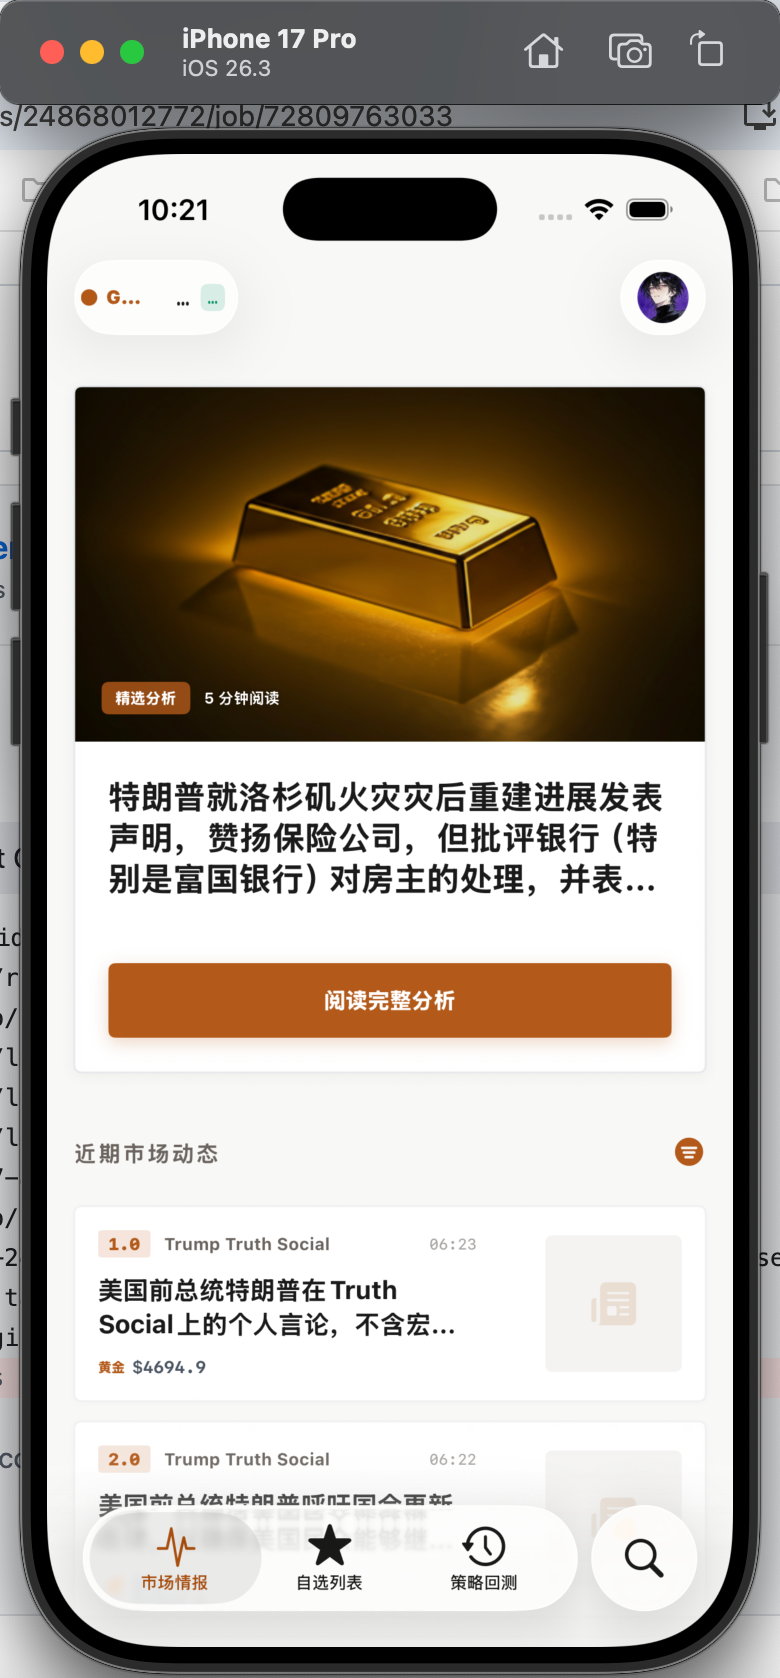
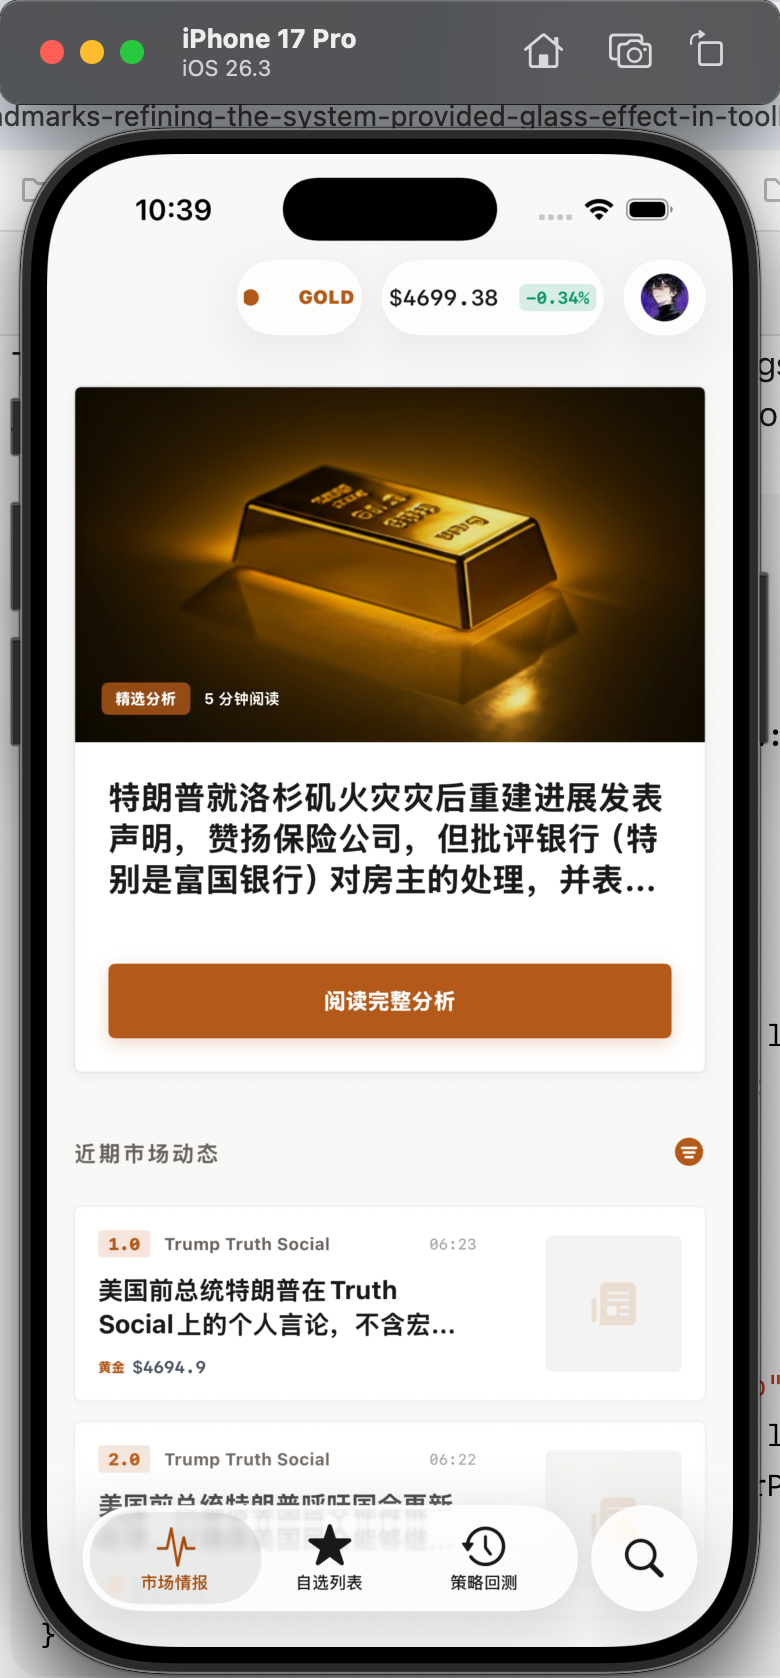
update_ui

diff --git a/apps/mobile/ios/LucidPanda/LucidPanda/Features/Dashboard/IntelligenceItemCard.swift b/apps/mobile/ios/LucidPanda/LucidPanda/Features/Dashboard/IntelligenceItemCard.swift
@@ -56,20 +56,33 @@ struct IntelligenceItemCard: View {
 
     private var featuredLayout: some View {
         VStack(alignment: .leading, spacing: 0) {
-            // Image with real project assets
+            // Image with real project assets or remote URL
             ZStack(alignment: .bottomLeading) {
-                let imageName = item.id % 2 == 0 ? "featured_1" : "featured_2"
-                
-                // Base 16:9 container to prevent distortion
-                Color.clear
-                    .aspectRatio(16/9, contentMode: .fit)
-                    .overlay(
-                        Image(imageName)
+                if let urlString = item.imageUrl, let url = URL(string: urlString) {
+                    AsyncImage(url: url) { image in
+                        image
                             .resizable()
                             .aspectRatio(contentMode: .fill)
-                    )
+                    } placeholder: {
+                        Color.Alpha.surfaceDim
+                    }
+                    .frame(maxWidth: .infinity)
+                    .aspectRatio(16/9, contentMode: .fit)
                     .clipped()
-                    .overlay(Color.black.opacity(0.1)) // Subtle darkening for text readability
+                } else {
+                    let imageName = item.id % 2 == 0 ? "featured_1" : "featured_2"
+                    // Base 16:9 container to prevent distortion
+                    Color.clear
+                        .aspectRatio(16/9, contentMode: .fit)
+                        .overlay(
+                            Image(imageName)
+                                .resizable()
+                                .aspectRatio(contentMode: .fill)
+                        )
+                        .clipped()
+                }
+                
+                Color.black.opacity(0.1) // Subtle darkening for text readability
                 
                 HStack(spacing: 8) {
                     Text("dashboard.badge.featured")
@@ -171,16 +184,31 @@ struct IntelligenceItemCard: View {
             
             Spacer()
             
-            // Thumbnail placeholder
-            Rectangle()
-                .fill(Color.Alpha.surfaceContainerLow)
+            // Thumbnail with real image support
+            if let urlString = item.imageUrl, let url = URL(string: urlString) {
+                AsyncImage(url: url) { image in
+                    image
+                        .resizable()
+                        .aspectRatio(contentMode: .fill)
+                } placeholder: {
+                    Rectangle()
+                        .fill(Color.Alpha.surfaceContainerLow)
+                        .overlay(ProgressView().scaleEffect(0.5))
+                }
                 .frame(width: 80, height: 80)
                 .clipShape(RoundedRectangle(cornerRadius: 4))
-                .overlay(
-                    Image(systemName: "newspaper.fill")
-                        .font(.system(size: 24))
-                        .foregroundStyle(Color.Alpha.brand.opacity(0.15))
-                )
+                .overlay(RoundedRectangle(cornerRadius: 4).stroke(Color.Alpha.separator.opacity(0.3), lineWidth: 0.5))
+            } else {
+                Rectangle()
+                    .fill(Color.Alpha.surfaceContainerLow)
+                    .frame(width: 80, height: 80)
+                    .clipShape(RoundedRectangle(cornerRadius: 4))
+                    .overlay(
+                        Image(systemName: "newspaper.fill")
+                            .font(.system(size: 24))
+                            .foregroundStyle(Color.Alpha.brand.opacity(0.15))
+                    )
+            }
         }
         .padding(14)
         .background(Color.Alpha.surface)

diff --git a/apps/mobile/ios/LucidPanda/LucidPanda/Features/Dashboard/MainDashboardView.swift b/apps/mobile/ios/LucidPanda/LucidPanda/Features/Dashboard/MainDashboardView.swift
@@ -88,7 +88,8 @@ struct MainDashboardView: View {
                 IntelligenceDetailView(item: item)
             }
             .toolbar {
-                ToolbarItem(placement: .topBarLeading) {
+                ToolbarSpacer(.flexible)
+                ToolbarItem {
                     // Button 1: Real-time Market Status & Label
                     Button {
                         let generator = UIImpactFeedbackGenerator(style: .medium)
@@ -110,11 +111,12 @@ struct MainDashboardView: View {
                     }
                     .buttonStyle(.plain)
                     .onAppear { isTickerAnimating = true }
+                    .fixedSize(horizontal: true, vertical: false)
                 }
 
                 ToolbarSpacer(.fixed)
 
-                ToolbarItem(placement: .topBarLeading) {
+                ToolbarItem {
                     // Button 2: Numerical Data (Price & Change)
                     if let pulse = rootViewModel.marketPulseViewModel.pulseData {
                         Button {
@@ -137,32 +139,29 @@ struct MainDashboardView: View {
                             }
                         }
                         .buttonStyle(.plain)
+                        .fixedSize(horizontal: true, vertical: false)
                     }
                 }
-
-                ToolbarItem(placement: .topBarTrailing) {
+                
+                ToolbarSpacer(.fixed)
+                
+                ToolbarItem {
                     Button {
                         isSettingsPresented = true
                     } label: {
-                        if let avatarUrl = rootViewModel.userProfile?.avatarUrl {
-                            let absoluteUrl = URL(string: avatarUrl, relativeTo: APIClient.shared.baseURL)
+                        if let avatarUrl = rootViewModel.userProfile?.avatarUrl, 
+                           let absoluteUrl = URL(string: avatarUrl, relativeTo: APIClient.shared.baseURL) {
                             AsyncImage(url: absoluteUrl) { image in
                                 image
                                     .resizable()
                                     .scaledToFill()
                             } placeholder: {
-                                Color.clear
+                                initialText
                             }
                             .frame(width: 28, height: 28)
                             .clipShape(Circle())
                         } else {
-                            let displayEmail = rootViewModel.userProfile?.email ?? "root@lucidpanda.com"
-                            let initial = String(displayEmail.prefix(1)).uppercased()
-                            
-                            Text(initial)
-                                .font(.system(size: 16, weight: .black))
-                                .foregroundStyle(Color.Alpha.brand)
-                                .frame(width: 28, height: 28)
+                            initialText
                         }
                     }
                 }
@@ -195,6 +194,16 @@ struct MainDashboardView: View {
     }
     
     @State private var isTickerAnimating = false
+
+    private var initialText: some View {
+        let displayEmail = rootViewModel.userProfile?.email ?? "root@lucidpanda.com"
+        let initial = String(displayEmail.prefix(1)).uppercased()
+        
+        return Text(initial)
+            .font(.system(size: 16, weight: .black))
+            .foregroundStyle(Color.Alpha.brand)
+            .frame(width: 28, height: 28)
+    }
 
     private var searchAndFilterBar: some View {
         Menu {

diff --git a/apps/mobile/ios/Packages/AlphaData/Sources/AlphaData/IntelligenceModels.swift b/apps/mobile/ios/Packages/AlphaData/Sources/AlphaData/IntelligenceModels.swift
@@ -7,6 +7,7 @@ public struct IntelligenceItem: Codable, Identifiable, Hashable {
     public let author: String
     public let summary: String
     public let content: String
+    public let image_url: String?
     public let sentiment: String
     public let urgencyScore: Int
     public let goldPriceSnapshot: Double?
@@ -23,6 +24,9 @@ public struct IntelligenceItem: Codable, Identifiable, Hashable {
     public let price12h: Double?
     public let price24h: Double?
 
+    // 快捷访问
+    public var imageUrl: String? { image_url }
+
     // 手动定义的 public memberwise initializer
     public init(
         id: Int,
@@ -30,6 +34,7 @@ public struct IntelligenceItem: Codable, Identifiable, Hashable {
         author: String,
         summary: String,
         content: String,
+        image_url: String? = nil,
         sentiment: String,
         urgencyScore: Int,
         goldPriceSnapshot: Double?,
@@ -47,6 +52,7 @@ public struct IntelligenceItem: Codable, Identifiable, Hashable {
         self.author = author
         self.summary = summary
         self.content = content
+        self.image_url = image_url
         self.sentiment = sentiment
         self.urgencyScore = urgencyScore
         self.goldPriceSnapshot = goldPriceSnapshot
@@ -68,6 +74,7 @@ public struct IntelligenceItem: Codable, Identifiable, Hashable {
         author = try container.decode(String.self, forKey: .author)
         urgencyScore = try container.decode(Int.self, forKey: .urgencyScore)
         goldPriceSnapshot = try container.decodeIfPresent(Double.self, forKey: .goldPriceSnapshot)
+        image_url = try container.decodeIfPresent(String.self, forKey: .image_url)
         
         dxySnapshot = try container.decodeIfPresent(Double.self, forKey: .dxySnapshot)
         us10ySnapshot = try container.decodeIfPresent(Double.self, forKey: .us10ySnapshot)
@@ -107,7 +114,7 @@ public struct IntelligenceItem: Codable, Identifiable, Hashable {
     }
 
     enum CodingKeys: String, CodingKey {
-        case id, timestamp, author, summary, content
+        case id, timestamp, author, summary, content, image_url
         case sentiment = "sentiment_label" // 保持默认映射用于向后兼容
         case urgencyScore = "urgency_score"
         case goldPriceSnapshot = "gold_price_snapshot"

diff --git a/apps/api/src/lucidpanda/providers/data_sources/rsshub.py b/apps/api/src/lucidpanda/providers/data_sources/rsshub.py
@@ -214,6 +214,36 @@ class RSSHubSource(BaseDataSource):
     def _is_noise(self, text: str) -> bool:
         return any(kw in text for kw in _NOISE_KEYWORDS)
 
+    def _extract_rss_image(self, entry) -> str | None:
+        """
+        [多维图像嗅探]
+        1. 尝试 media_content (常见于 Bloomberg/CNBC)
+        2. 尝试 enclosures (传统 RSS)
+        3. 解析 summary/description 中的 <img> 标签 (RSSHub 默认行为)
+        """
+        # A. Media Content
+        media_content = getattr(entry, "media_content", None)
+        if media_content and len(media_content) > 0:
+            return media_content[0].get("url")
+
+        # B. Enclosures
+        enclosures = getattr(entry, "enclosures", None)
+        if enclosures and len(enclosures) > 0:
+            for enc in enclosures:
+                if enc.get("type", "").startswith("image/"):
+                    return enc.get("href")
+
+        # C. HTML Scraper from summary
+        summary_html = getattr(entry, "summary", "") or getattr(entry, "description", "")
+        if summary_html:
+            import re
+
+            match = re.search(r'<img [^>]*src="([^"]+)"', summary_html)
+            if match:
+                return match.group(1)
+
+        return None
+
     def _passes_category_filter(self, category: str, text: str) -> bool:
         """根据情报分类应用不同的过滤策略。"""
         if category == "macro_gold":
@@ -351,6 +381,7 @@ class RSSHubSource(BaseDataSource):
                             "content": f"{title}. {summary}",
                             "url": getattr(entry, "link", url),
                             "id": item_id,
+                            "image_url": self._extract_rss_image(entry),
                         }
                     )
                 status["new_items"] = len(items)

diff --git a/apps/api/scripts/migrations/004_add_intelligence_image_url.py b/apps/api/scripts/migrations/004_add_intelligence_image_url.py
@@ -1,0 +1,37 @@
+"""
+Migration: Add image_url to intelligence table
+Date: 2026-04-24
+"""
+from src.lucidpanda.infra.database.connection import get_session
+from sqlalchemy import text
+from sqlmodel import Session
+
+def migrate():
+    print("🚀 Starting migration: add image_url to intelligence...")
+    
+    with Session(get_session().bind) as session:
+        try:
+            # 1. 检查列是否存在
+            check_sql = text("""
+                SELECT COUNT(*) 
+                FROM information_schema.columns 
+                WHERE table_name='intelligence' AND column_name='image_url';
+            """)
+            exists = session.execute(check_sql).scalar()
+            
+            if not exists:
+                # 2. 增加列
+                print("📝 Adding 'image_url' column to 'intelligence' table...")
+                session.execute(text("ALTER TABLE intelligence ADD COLUMN image_url VARCHAR;"))
+                session.commit()
+                print("✅ Column added successfully.")
+            else:
+                print("ℹ Column 'image_url' already exists, skipping.")
+                
+        except Exception as e:
+            session.rollback()
+            print(f"❌ Migration failed: {e}")
+            raise
+
+if __name__ == "__main__":
+    migrate()

diff --git a/apps/api/src/lucidpanda/models/intelligence.py b/apps/api/src/lucidpanda/models/intelligence.py
@@ -16,6 +16,7 @@ class IntelligenceBase(SQLModel):
     category: str = Field(
         default="macro_gold", index=True
     )  # macro_gold | equity_cn | equity_us
+    image_url: str | None = None
 
     # Complex fields using JSONB for performance and Web requirements
     summary: dict[str, Any] | None = Field(default=None, sa_column=Column(JSONB))
@@ -70,6 +71,7 @@ class IntelligenceMobileRead(SQLModel):
     author: str
     summary: str  # Flattened for mobile
     content: str  # Full content for peek sheet
+    image_url: str | None = None
     urgency_score: int
     sentiment_label: str  # Derived for mobile
     gold_price_snapshot: float | None = None

diff --git a/apps/api/src/lucidpanda/api/v1/routers/mobile.py b/apps/api/src/lucidpanda/api/v1/routers/mobile.py
@@ -138,6 +138,7 @@ async def get_mobile_intelligence(limit: int = 20, db: Session = Depends(get_ses
                 author=item.author or "Unknown",
                 summary=summary_text,
                 content=content_text,
+                image_url=item.image_url,
                 urgency_score=urgency_score,
                 sentiment_label=sentiment_label,
                 gold_price_snapshot=item.gold_price_snapshot,
